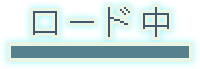
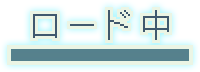
fix for loading bar positioning

diff --git a/CustomLocalization.cpp b/CustomLocalization.cpp
@@ -343,6 +343,7 @@ HOOK_METHOD(ResourceControl, PreloadResources, (bool unk) -> bool)
     return super(unk);
 }
 
+// Rewrite of ResourceControl::GetJapaneseFont
 HOOK_METHOD(ResourceControl, GetFontData, (int size, bool ignoreLanguage) -> freetype::font_data&)
 {
     LOG_HOOK("HOOK_METHOD -> ResourceControl::GetFontData -> Begin (CustomLocalization.cpp)\n")
@@ -523,6 +524,30 @@ HOOK_METHOD(FTLButton, OnRender, () -> void)
     }
 
     super();
+}
+
+#pragma endregion
+
+#pragma region
+// Fix for loading bar positioning
+
+static bool g_fixJpLoadBarPos = false;
+
+HOOK_METHOD(ResourceControl, RenderLoadingBar, (float initialProgress, float finalProgress) -> void)
+{
+    LOG_HOOK("HOOK_METHOD -> ResourceControl::RenderLoadingBar -> Begin (CustomLocalization.cpp)\n")
+    
+    g_fixJpLoadBarPos = G_->GetTextLibrary()->currentLanguage == "ja";
+    super(initialProgress, finalProgress);
+    g_fixJpLoadBarPos = false;
+}
+
+HOOK_METHOD(CSurface, GL_BlitImagePartial, (GL_Texture *tex, float x, float y, float size_x, float size_y, float start_x, float end_x, float start_y, float end_y, float alpha, GL_Color color, bool mirror) -> bool)
+{
+    LOG_HOOK("HOOK_METHOD -> CSurface::GL_BlitImagePartial -> Begin (CustomLocalization.cpp)\n")
+    
+    if (g_fixJpLoadBarPos) y += 3;
+    return super(tex, x, y, size_x, size_y, start_x, end_x, start_y, end_y, alpha, color, mirror);
 }
 
 #pragma endregion
